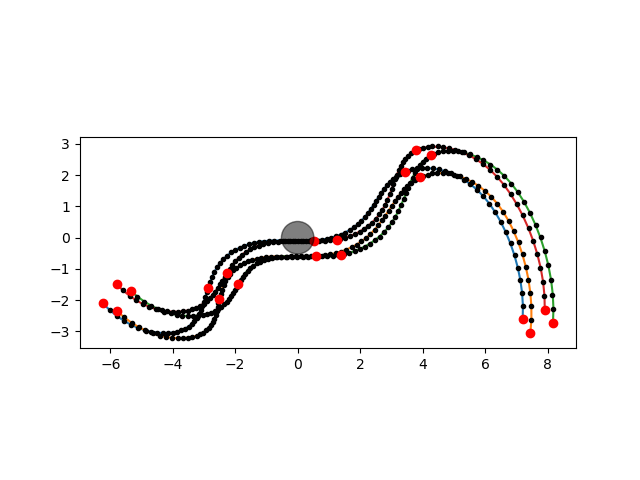
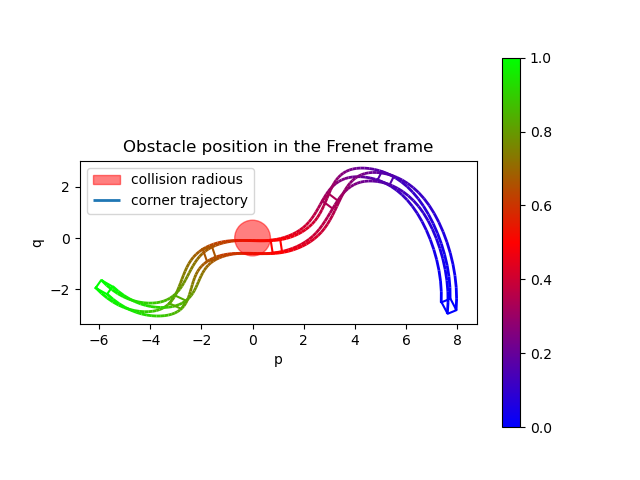
v1.4.0 A little gradient obstacle plot :)

diff --git a/src/obstacle.py b/src/obstacle.py
@@ -110,28 +110,95 @@ class Obstacle(Environment):
         fig, ax = plt.subplots()
         t = np.linspace(0, 1, 100)
         
-        for corner in self.corners_spline:
-            p_ = np.array([corner[0](t_)[0] for t_ in t]).reshape(-1)
-            q_ = np.array([corner[1](t_)[0] for t_ in t]).reshape(-1)
-            ax.plot(p_, q_)
-            
-        for corner in self.corners_t:
-            ax.plot(corner[0], corner[1], 'k.')
-            
-        t = np.linspace(0, 1, 5)
-        for corner in self.corners_spline:
-            p_ = np.array([corner[0](t_)[0] for t_ in t]).reshape(-1)
-            q_ = np.array([corner[1](t_)[0] for t_ in t]).reshape(-1)
-            ax.plot(p_, q_, 'ro')
-            
-            
-            
-        # circle = plt.Circle((0, 0), 1, color='k', alpha=0.5, zorder = 10)
-        circle = plt.Circle((0, 0), 0.52, color='k', alpha=0.5, zorder = 10)
-        ax.add_patch(circle)
         
+        from matplotlib.pyplot import cm
+        color=cm.Wistia(np.linspace(0,1,len(t)))
+        color=cm.YlOrRd(np.linspace(0,1,len(t)))
+        
+        transparency = np.logspace(-9, -5, base=2, num=len(t))
+        transparency = np.logspace(-1, 0, base=2, num=len(t))
+        
+        
+        for i, corner in enumerate(self.corners_spline):
+            p_ = np.array([corner[0](t_)[0] for t_ in t]).reshape(-1)
+            q_ = np.array([corner[1](t_)[0] for t_ in t]).reshape(-1)
+            
+            # ax.plot(p_, q_, c = 'cornflowerblue',lw=1.0,alpha = 0.9, zorder = 7)
+            # k = 0
+            # for p__, q__ in zip(p_, q_):
+            #     ax.plot(p__, q__, '.',  c = color[k], alpha = transparency[k], zorder = 7)
+            #     k += 1
+            
+            # https://www.py4u.net/discuss/258067
+            from matplotlib.collections import LineCollection
+            cols = np.linspace(0,1,len(p_))
+            points = np.array([p_, q_]).T.reshape(-1, 1, 2)
+            segments = np.concatenate([points[:-1], points[1:]], axis=1)
+            lc = LineCollection(segments, cmap='viridis')
+            lc = LineCollection(segments, cmap='Wistia')
+            lc = LineCollection(segments, cmap='hot')
+            if i == 0:
+                lc = LineCollection(segments, cmap='brg', label='corner trajectory')
+            else:
+                lc = LineCollection(segments, cmap='brg')
+            line = ax.add_collection(lc)
+            lc.set_array(cols)
+            lc.set_linewidth(2)
+            
+            
+            
+        import math
+        x_min = math.inf
+        x_max = -math.inf
+        y_min = math.inf
+        y_max = -math.inf
+        for corner in self.corners_t:
+            # ax.plot(corner[0], corner[1], 'k.')
+            x_min = min(x_min, min(corner[0]))
+            x_max = max(x_max, max(corner[0]))
+            y_min = min(y_min, min(corner[1]))
+            y_max = max(y_max, max(corner[1]))
+        
+        ax.set_xlim(x_min * 1.1, x_max * 1.1)
+        ax.set_ylim(y_min * 1.1, y_max * 1.1)
+            
+        # t = np.linspace(0, 1, 6)
+        # for corner in self.corners_spline:
+        #     p_ = np.array([corner[0](t_)[0] for t_ in t]).reshape(-1)
+        #     q_ = np.array([corner[1](t_)[0] for t_ in t]).reshape(-1)
+        #     ax.plot(p_, q_, 'yo')
+            
+        numera = 7
+        color=cm.brg(np.linspace(0,1,numera))
+        c = color
+        for i in range(numera):
+            corners = np.array(self.corners)
+            corners = np.vstack((corners, corners[0, :]))
+            p, q = [], []
+            for j in range(corners.shape[0]):
+                p_corn, q_corn = self.fp.inertial_to_frenet(x = corners[j, 0], y = corners[j, 1], t = interp(i,[0,numera-1],[0,1]))
+                p = np.append(p, p_corn)
+                q = np.append(q, q_corn)
+            ax.plot(p,
+                    q,
+                    c = c[i])
+        ax.set_title("Obstacle position in the Frenet frame")
+        ax.set_xlabel("p")  
+        ax.set_ylabel("q")  
+        ax.legend(fontsize = 'x-small')
+            
+            
+        s_danger = 0.6988905493709299    
+        # circle = plt.Circle((0, 0), 1, color='k', alpha=0.5, zorder = 10)
+        circle = plt.Circle((0, 0), s_danger, color='r', alpha=0.5, zorder = 10)
+        ax.add_patch(circle)
+        ax.legend([circle, line], ['collision radious', 'corner trajectory'])
         ax.set_aspect('equal', adjustable='box')
+        fig.colorbar(line,ax=ax)
+        
+        
         plt.savefig('b_' + str(self.ID) + '.png')
+        plt.show()
         return self
             
     def random_placement(self, x_limits, y_limits):

diff --git a/src/group.py b/src/group.py
@@ -382,7 +382,7 @@ class Group(Environment):
                 
                 t = (t_danger_start + t_danger_end) / 2
                 lookback = (t_danger_end - t_danger_start) / 2 * 1.0
-                lookahead = (t_danger_end - t_danger_start) / 2 * 1.5
+                lookahead = (t_danger_end - t_danger_start) / 2 * 1.0
                 t_zizz = np.linspace( (t-lookback >= 0) * (t-lookback) + (t-lookback > 0) * 0,
                                           (t+lookahead <= 1) * (t+lookahead) + (t+lookahead > 1) * 1,
                                           10)
@@ -1069,7 +1069,7 @@ class Group(Environment):
     
     def formation_change_cost_calculator(self, vehicle_positions_original, vehicle_positions_new, rotation_angle = 0, scaling_factor = 1):
         cost = 0
-        alpha_distance = 0.1 * 10
+        alpha_distance = 0.1 * 1 * 0
         alpha_rotation = 0.1
         alpha_scaling_up = 1000
         alpha_scaling_down = 100
@@ -1137,7 +1137,8 @@ class Group(Environment):
             vehicle_distance_from_origo = np.sqrt((0-position[0])**2 + (0-position[1])**2)
             if vehicle_distance_from_origo > s_danger:
                 s_danger = vehicle_distance_from_origo
-        
+        # print(s_danger)
+        # s_danger = 0.6988905493709299
         # Check if any of the obstacles are in the danger zone
         any_inside = []
         corner_inside = []

diff --git a/ACC_example_1.py b/ACC_example_1.py
@@ -77,6 +77,8 @@ def run_optimizaiton(corners_list, start_position, goal_position, min_iterations
     
     delta_x = 0.03 * -1
     delta_y = -0.1 * -1
+    delta_x = 0.03 * -0
+    delta_y = -0.1 * -0
     corners = ([-0.132, -0.2], [0.182, -0.6  ], [0.495, -0.4], [0.185, 0.0]) # ACC
     corners = ([-0.132 + delta_x, -0.2 + delta_y], [0.182 + delta_x, -0.6 + delta_y], [0.495 + delta_x, -0.4 + delta_y], [0.185 + delta_x, 0.0 + delta_y]) # ACC
     obstacles += [Obstacle(ID = 0, corners = corners)]
@@ -180,6 +182,10 @@ def run_optimizaiton(corners_list, start_position, goal_position, min_iterations
     print("mosoly")
     # group.intermediate_position_generator_PENI_full()
     # group.intermediate_position_generator_SZILARD_sweep()
+    
+    # group.vehicles[0].obstacles[0].plot_corners_spline()
+    # assert 0
+    
     group.sweep_ACC()
     
     # return 0, group

diff --git a/ACC_example_2.py b/ACC_example_2.py
@@ -75,8 +75,6 @@ def run_optimizaiton(corners_list, start_position, goal_position, min_iterations
     corners = ([-0.132, -0.2], [0.182, -0.6  ], [0.495, -0.4], [0.185, 0.0]) # ACC
     corners = ([-0.132 + delta_x, -0.2 + delta_y], [0.182 + delta_x, -0.6 + delta_y], [0.495 + delta_x, -0.4 + delta_y], [0.185 + delta_x, 0.0 + delta_y]) # ACC
     
-    
-    
     obstacles += [Obstacle(ID = 0, corners = corners)]
     
     # Obstacle 2
